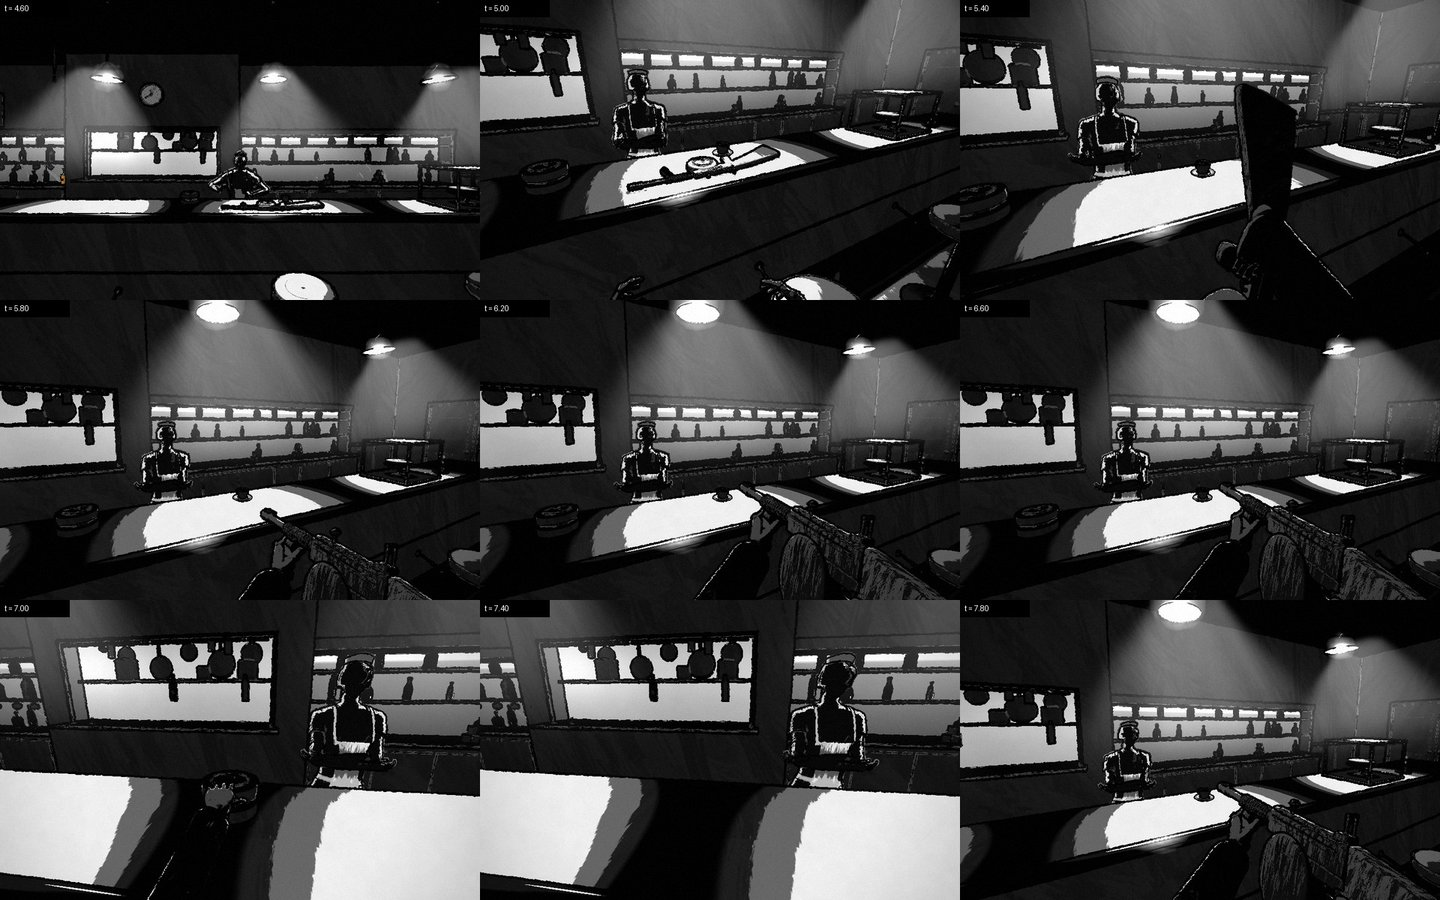
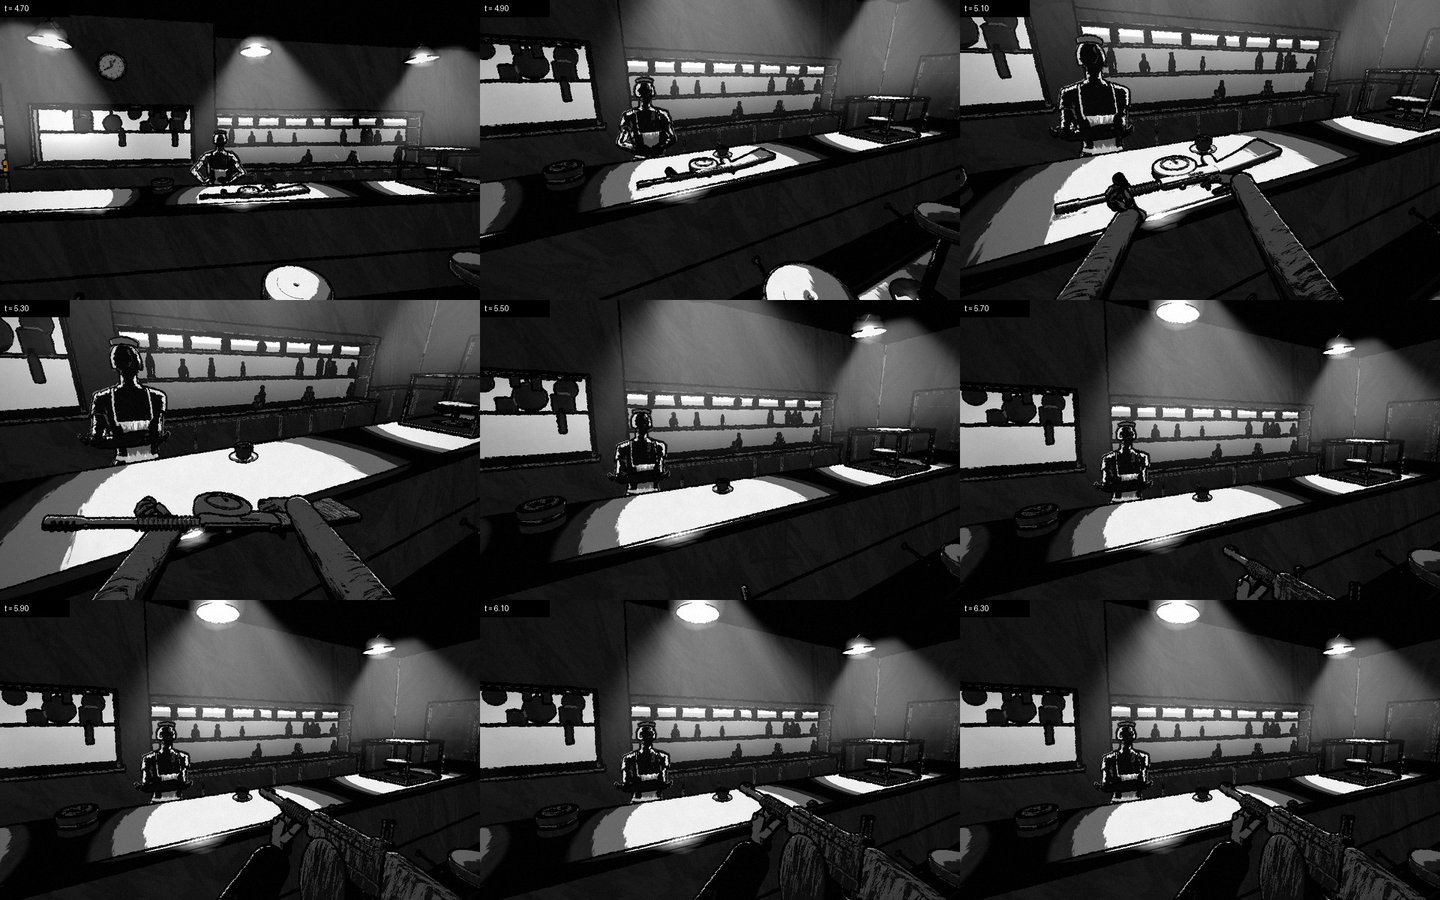
R2-F: the report's Round 2 (what changed, the first-timer measured, the gate, what is left) and the refreshed review strips 1-2 and last frame

diff --git a/docs/story/reports/wave-b/B7.md b/docs/story/reports/wave-b/B7.md
@@ -161,3 +161,89 @@ Strips (3 x 3 cells of 480 x 300 from 960 x 600 captures):
 - `strip2_cars_arrive.jpg` (second pass): cars, t 7.5-11.5, from the pavement south of the door: the swing, the stop, the doors open on the lit cabs, the men out beside the cars.
 - `strip3_el_fall_and_driveby_crash.jpg`: el (killed at 4.6): his flash, hit, over the rail, falling; then the drive-by (crippled at 4.0) from the road: at me, the swerve, into the post (it goes dark), burning.
 - `strip4_cardinal_knee_fall_hat.jpg`: rows 1-2 are cells of strips I made earlier in the lane (04:51 and 05:03, the Cardinal's code as it is now: his clips have not changed since 42ddbcb): walking with the pistol, the knee, up and on, the fall, down; him close with the cigar's ember (the fall in row 2 is the first pass's). Row 3 on the second pass's final code (cardinal wounded to the fall, t 28.3-30.6, a tracking lens): fallen forward, his hat rolling on away from him, then settled by the cigar's ember.
+
+## Round 2 (lane R2-F, branch `wave-b/R2-shootout`, c74d119..518d406)
+
+The brief (`docs/story/briefs/R2_ROUND2.md`, R2-F): men who climb out of the cars, the front wheels steering, the stock across the lens on the take, a first-timer's difficulty, frames per second at the cars beat, the el train over the last frame and the drive-by's second pass captured. The lane was begun by one builder (c74d119..d488f9d) and finished by a second after the machine overloaded and every builder was stopped (5303f13..518d406); nothing was left uncommitted but the art director's tool update (5303f13, committed as it was).
+
+### What changed, as a player feels it
+
+1. **The take** (c74d119): the gun leaves the counter muzzle-forward, turned stock-down, and goes down out of the bottom of the frame before it comes up to the shoulder; the stock no longer sweeps the lens (`strip1_dot_and_the_take.jpg`, t 4.7-6.3).
+2. **The front wheels steer** (e30a99c): a car on a rail has its own copy of the sedan's five wheel meshes (the same five draws) and its front wheels' vertices turn about their uprights with the bend of the rail and against a slide; it stands with its wheels turned where it stopped.
+3. **Men climb out of the cars** (aed2fa5): in the seat as the door opens, turned to it, feet on the sill, ducked under the roof, a hand on the frame, up and a step clear (`carOut.js`, the Hood rig's clip `b7_carOut`, 1.15 s); the Cardinal has his own (`cardinal_carOut`). Shot half in the car he folds out over his knees in the doorway (`b7_carSlump`); shot on his feet with the car at his back he goes down forward, never back through it (`strip2_cars_arrive.jpg`, t 9.5-10: out of car B's door).
+4. **Frame rate** (922ca05, d936698, 73b797b): the glass lying at rest after the front goes is drawn as one batch in scene 9 (three draws, rebuilt at most every 0.25 s; `Glass.js` `batchRest`, off everywhere else); the headlamps borrow a plain lamp-pool spot instead of making a light (no program recompiles in play); the scene compiles every program it will need under its chapter card (every pass, the hidden things, the later ones: the first shard, gunsmoke, bullet hole, wreck and man no longer stall the frame they appear in).
+5. **The last frame** (ad5590b): the el train now goes away down the avenue along the deck in view (it went the other way, out of the frame), the eye lifting slowly off the hat to it; the hat and the ember stay in the frame's foot (`10_last_frame.jpg`, t 11: the train's lit windows along the deck).
+6. **Difficulty** (627ccb6, 6748de5, b312a26, 518d406):
+   - fail softly: each death in a beat makes that beat's men shoot a fifth worse on the retry (at most down to 0.55 of their aim; `mercy()` in `rig.js`), so a player who keeps dying in one place gets through in a try or two instead of a loop;
+   - the intruder (in at the door, at my side) fires his first two rounds wide past me into the room before he shoots as he is (aim 1.5 -> 1.35): he killed a first-timer before he could turn;
+   - a retry of the Cardinal's beat has the saloon in under the black, his men out in about six seconds and him in about ten (no second quiet and approach);
+   - the Cardinal takes 24 wounds (slow at 8, the knee at 16; were 15 / 5 / 10): a first-timer had him down five seconds after he stood clear of the car;
+   - the cars beat lasts at least 20 s after the cars stop (was 15);
+   - the men's aim about a quarter up: cars 1.4 -> 1.75, doorways 1.3 -> 1.6, el 1.1 -> 1.35, his heavies 1.2 -> 0.95 -> 1.15, the Cardinal 0.7 -> 0.85, the drive-by's gunner 0.55 -> 0.7 (all x 0.7 in the dark as before).
+
+### The first-timer, measured
+
+`tools/plays/shootout_first.json` plays the scene by real input with the driver's `first` profile: slower to see a man and to turn onto him (0.55-0.95 s, a slower hand), sights that wander (0.055 rad), no lead, long bursts, holds a window until badly hurt, never finds the light switch; and (af7a988) a human's attention: it sees a man only near where it is looking (0.42 rad off the line of sight), by his muzzle flash within 1 rad, or within 7 m, and it scans the street slowly when it sees no one. The driver also counts the men's aimed rounds, the ones rolled to hit and the ones that landed (`inst`). Game seconds per beat (game time runs with the wall clock here: `play` 140.3 against 139 s):
+
+| run | code | arrive | cars | doorways | el | driveby | cardinal | end | total | deaths | damage | their aimed rounds / landed | kills | my rounds / hits |
+|---|---|---|---|---|---|---|---|---|---|---|---|---|---|---|
+| first1 (no attention model) | 5303f13 | 6 | 24 | 24 | 12 | 19 | 38 | 16 | 140 | 0 | 45 | (108 rounds, glass too) / 4 | 14 | 299 / 38 (0.13) |
+| first2 | af7a988 | 6 | 24 | 111 | 12 | 49 | 26 | 16 | 245 | 3 (all in doorways) | 507 | 343 / 46 | 19 | 316 / 53 (0.17) |
+| first3 | 6748de5 | 6 | 24 | 81 | 13 | 18 | 25 | 16 | 184 | 1 (doorways) | 270 | 189 / 26 | 15 | 356 / 47 (0.13) |
+| first4 | b312a26 | 5 | 29 | 28 | 12 | 15 | 51 | 15 | 157 | 0 | 139 | 200 / 12 | 16 | 334 / 58 (0.17) |
+| first5 | b312a26 | 6 | 29 | 13 | 19 | 19 | 41 | 15 | 143 | 0 | 123 | 115 / 11 | 14 | 290 / 54 (0.19) |
+| first6 | 518d406 (final) | 6 | 29 | 20 | 46 | 15 | 26 | 16 | 159 | 1 (el) | 218 | 122 / 19 | 15 | 309 / 49 (0.16) |
+
+The sure shot (`tools/plays/shootout.json`, the first pass's profile) on the same code:
+
+| run | code | arrive | cars | doorways | el | driveby | cardinal | end | total | deaths | damage | their aimed rounds / landed | kills | my rounds / hits |
+|---|---|---|---|---|---|---|---|---|---|---|---|---|---|---|
+| gate1 | b312a26 | 6 | 29 | 10 | 16 | 19 | 53 | 17 | 151 | 0 | 22 | 88 / 2 | 13 | 260 / 61 (0.23) |
+| gate2 | b312a26 | 6 | 29 | 9 | 15 | 19 | 36 | 16 | 131 | 0 | 11 | 67 / 1 | 14 | 276 / 60 (0.22) |
+| gate3 | 518d406 (final) | 6 | 29 | 9 | 16 | 19 | 50 | 16 | 146 | 0 | 125 | 150 / 12 | 13 | 293 / 62 (0.21) |
+| gate4 | 518d406 (final) | 6 | 29 | 11 | 17 | 18 | 36 | 16 | 134 | 0 | 55 | 71 / 5 | 14 | 269 / 59 (0.22) |
+
+- The first-timer hits with 13-19 % of his rounds, the sure shot with 21-23 %: the first-timer is at 0.6-0.85 of the sure shot's hit rate (the brief's "0.5 to 0.6 hit rate", read as against a sure shot).
+- The men's hit rolls are what land: of the rounds rolled to hit, 85-95 % land (the line is clear); their chance per aimed round is what the aims set (8-17 %).
+- Without the attention model the first-timer was nearly a sure shot (first1: no death, 45 damage). With it, the doorways beat decided each run: three deaths running there (first2) before the retries' mercy and the intruder's wide rounds; one (first3) after.
+- **Not reached:** the brief's 4-6 minutes, dying once or twice. On the final code the first-timer's driver won in 2 min 39 s, down once (one run); on the code before the last aim change in 2 min 23 s and 2 min 37 s, never down. The scene's beats end when their men are down, and a Tommy gun puts the men down fast when they are in the open; more time would take more men or men who stay in cover, not more aim (see Left 1). What the driver leaves out and a person does not: finding the gun and the counter, looking round, the drums at the wrong moment, the walk out to the hat taken slowly; a person's run will be longer than the driver's by an amount I have not measured.
+
+### Music slots (changed)
+
+- `shootout`: cued as the cars beat begins (5-6 s in for the driver), stopped at the Cardinal's quiet: 80-110 s for the first-timer's driver without a death, up to 3 minutes with the doorways deaths of first2; 73-75 s for the sure shot.
+- The Cardinal's beat (7 s of rain, the saloon, the heavies, him) now 26-53 s for both drivers (was 24-56 s with a sure shot, 25 s for a first-timer who killed him as he came out); a retry of it is about 10 s to him.
+- `end` unchanged (2.6 s into the last frame; the card 6 s after).
+
+### Frames per second
+
+One measurement at the end, as the brief asks (the machine is shared; other lanes' captures had the GPU 73-74 % busy before each run, so the absolute numbers mean little): `UNCAPPED=1 node tools/fps.mjs` at 1440 x 900, `shot=perf&t=1&anim=1` then `scene=shootout&beat=cars&t=10&anim=1`. The page's own timed frame (`__noir.bench`, 24 frames): perf 44.25 ms, the cars beat 38.86 ms, so the cars beat renders at about 1.14 x perf's rate (round 1: 0.77-0.86). I cut the tool's output to its tail and lost the requestAnimationFrame fps of that pair, so the ratio is the bench's. Draw calls (read afterwards with `tools/evalpage.mjs`, not a benchmark): the cars beat 639 against perf's 744, 2.61 M triangles against 3.11 M (round 1: 823-851 against 728-785).
+
+### Shared files changed (round 2)
+
+- `src/destruct/Glass.js` (`// [R2-F]`): `ShardField.batchRest` (default off: nothing else draws differently) and its `batchStep` / `rebuildBatch` / `unbatch`; `kill` and the fall-again path mark the batch dirty. 64 lines added.
+- `tools/play.mjs` (`// [R2-F]`): a `drive` step that is an object is B5's drive, a path string is B7's driver (B5's merge had taken every drive step). One line.
+- `tools/*.sh`, `tools/*.mjs` (5303f13): the art director's update (headless Chrome with a mock keychain, a hard limit on a hung capture), committed as given.
+
+### Gate (final code, 518d406)
+
+- `npm run build`: builds (the usual chunk-size warning).
+- `python3 tools/golden.py check`: passed, 32 of 32 frames identical (run on b312a26; 518d406 changes only numbers in `09_shootout.js`, which no golden preset loads).
+- `tools/errors.sh` clean on every beat (run on b312a26): arrive t 6, cars t 12, doorways t 8, el t 6, driveby crippled at 4 t 8, cardinal with 8 + 8 + 8 wounds t 28 (he falls at 24: the beat is `end` by then), end t 6, the last frame t 13; the cardinal beat again on 518d406: clean. Every play also checks `#errlog`: clean.
+- My play twice in a row on the final code: gate3 and gate4, 5 of 5 each (and gate1, gate2 on b312a26).
+- The slice play: 27 passed, 0 failed (on b312a26: the fight won by real input in 78 s, out through the window, the matchbook, the next chapter).
+- Frames per second above.
+
+### Left (most felt first)
+
+1. **A first-timer's length and deaths are short of the brief**: the driver's first-timer wins in 2.4-2.7 minutes on the last two sets of numbers, down 0-1 times (one run on the final code), against 4-6 minutes and once or twice. Aim alone will not make it: the men die fast in the open. The levers that would: men who hold cover and move between it (the cars' men stand at their doors; the doorways men fight from open road 13-16 m off), a third car or a second wave in the cars beat, the doorways beat not ending at one man left. A person's first run is not measured.
+2. **The take's arms** (strip 1, t 5.1-5.3): from where the scene opens the hands reach the gun on the counter as two long pale sleeves across the lower frame; not stretched past a reach, but they read as poles. The hands' look is lane R2-B's; the lean could be deeper so less arm shows.
+3. **The drive-by's second pass**: captured and looked at by the first owner of this lane (a strip, t 5.5-14.5: it turns at the end of the block and comes back up the far side with its lamps, then is gone), on code whose drive-by path has not changed since; it is small and far in that framing and is not in the review set.
+4. **The steering** reads only close to a car; in the review strips the wheels are too small to see it.
+5. **The Cardinal's aim is not refreshed by the light switch** when his brain is the cast kind's (as before round 2; his `b7aim` is set now so the switch uses it, but a brain file's own `aim` may not be the object the switch writes).
+6. As before: `G.b7` and `G.director.level` are set at run time and cleared at teardown.
+
+### Review set (refreshed in round 2)
+
+- `strip1_dot_and_the_take.jpg`: arrive, from where the scene opens, E at 4.55, t 4.7-6.3: the step in, the hands on the gun, the lift muzzle-forward and down out of the frame (no stock across the lens), the gun up at the shoulder. (The drums, unchanged since the second pass, are no longer in it.)
+- `strip2_cars_arrive.jpg`: cars, t 8.0-12.0, from the road (`pose=1.0,-9.0,-2.324,0.05`, no viewmodel): car B swings in, a man climbs out of its door under the roof and stands clear, car A's men out and firing at the diner.
+- `10_last_frame.jpg`: end, the last frame (`b7frame=1`, t 11): the hat and the ember, the saloon and the wet street, the train's lit windows going away along the deck.
